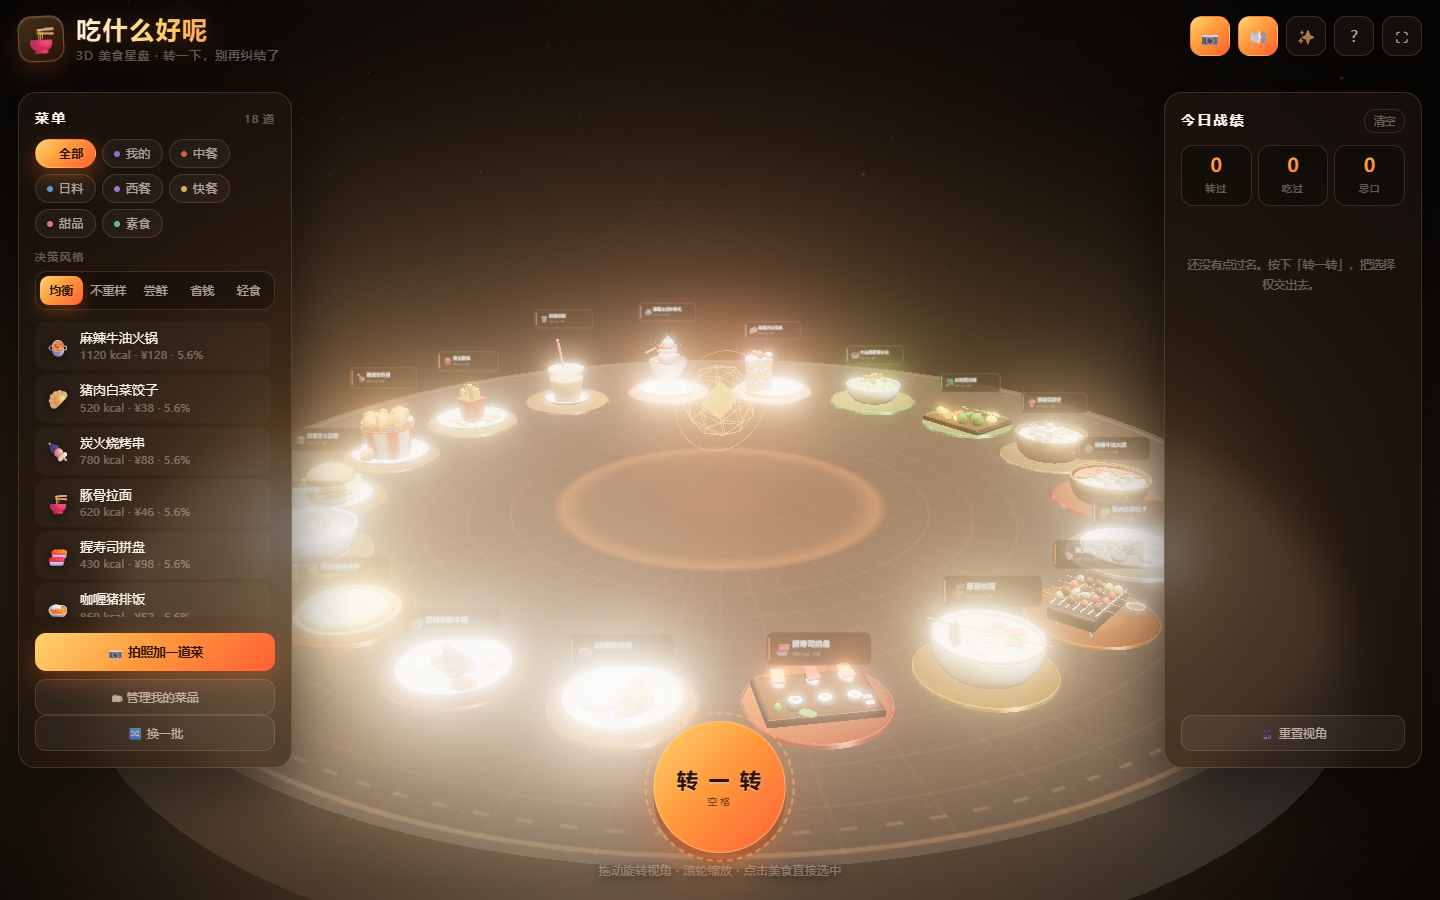
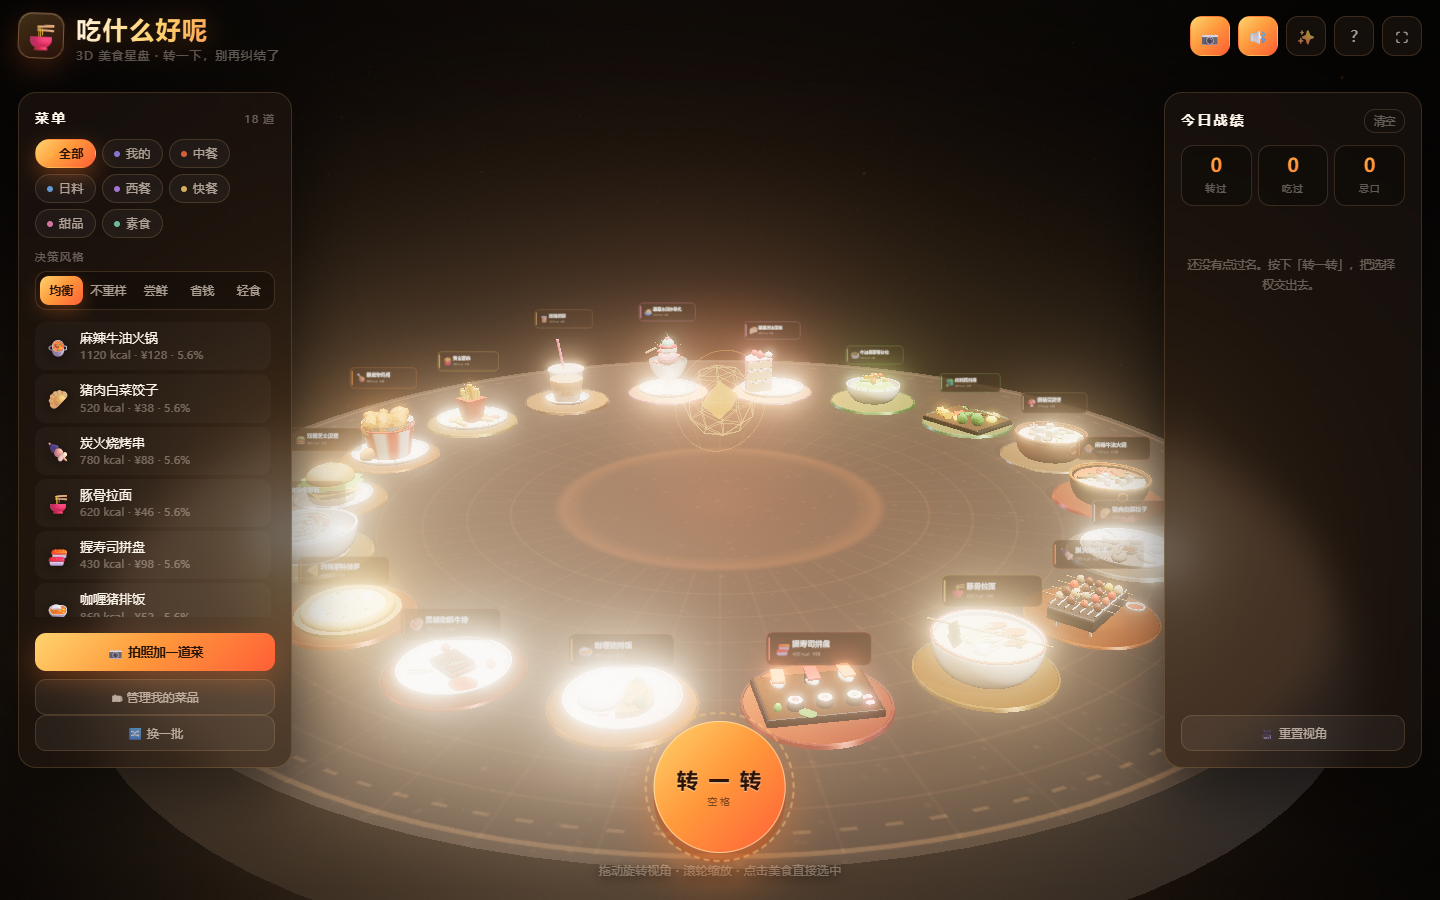
调暗特效光：光柱 / 能量核 / 盘子光晕 / Bloom
- 光柱各层透明度约减半，不再糊成白柱
- 中心能量核辉光、光斑、细环收敛，中心点光 7.5 → 5.2
- 盘子光晕 0.26 → 0.12、光圈 0.3 → 0.2
- Bloom 0.46 → 0.32，阈值 0.8 → 0.86；爆发/冲击环/浮尘同步减弱
- 整体平均亮度约 -11%，过曝像素约 -17%

diff --git a/src/three/effects.js b/src/three/effects.js
@@ -102,7 +102,7 @@ export function createAmbientMotes({ count = 320, inner = 2.2, outer = 6.4, heig
       pos[ix] += Math.sin(t * 0.5 + phases[i]) * dt * 0.06;
       pos[iz] += Math.cos(t * 0.42 + phases[i] * 1.3) * dt * 0.06;
       // 缓慢呼吸
-      alpha[i] = 0.12 + 0.4 * (0.5 + 0.5 * Math.sin(t * 0.9 + phases[i]));
+      alpha[i] = 0.09 + 0.26 * (0.5 + 0.5 * Math.sin(t * 0.9 + phases[i]));
     }
     geo.attributes.position.needsUpdate = true;
     geo.attributes.aAlpha.needsUpdate = true;
@@ -120,7 +120,7 @@ export function createCore() {
   root.position.set(0, 1.06, 0);
 
   // 内核
-  const inner = mesh(new THREE.OctahedronGeometry(0.2, 0), accentGlow(0xffb347, 1.25), {
+  const inner = mesh(new THREE.OctahedronGeometry(0.2, 0), accentGlow(0xffb347, 0.95), {
     cast: false,
   });
   inner.name = 'core-inner';
@@ -130,7 +130,7 @@ export function createCore() {
     color: 0xffc978,
     wireframe: true,
     transparent: true,
-    opacity: 0.32,
+    opacity: 0.22,
     depthWrite: false,
   });
   const shell = mesh(new THREE.IcosahedronGeometry(0.34, 1), shellMat, { cast: false, name: 'core-shell' });
@@ -141,7 +141,7 @@ export function createCore() {
     color: 0xff8a2e,
     blending: THREE.AdditiveBlending,
     transparent: true,
-    opacity: 0.3,
+    opacity: 0.17,
     depthWrite: false,
   });
   const glow = new THREE.Sprite(glowMat);
@@ -151,7 +151,7 @@ export function createCore() {
   const ringMat = new THREE.MeshBasicMaterial({
     color: 0xffb347,
     transparent: true,
-    opacity: 0.34,
+    opacity: 0.2,
     blending: THREE.AdditiveBlending,
     depthWrite: false,
   });
@@ -172,7 +172,7 @@ export function createCore() {
       map: haloTexture(),
       color: 0xff8a3a,
       transparent: true,
-      opacity: 0.5,
+      opacity: 0.24,
       blending: THREE.AdditiveBlending,
       depthWrite: false,
     }),
@@ -199,7 +199,7 @@ export function createCore() {
     inner.scale.setScalar(pulse);
     shell.scale.setScalar(1 + Math.sin(t * 1.7) * 0.04 + spinBoost * 0.2);
     glow.scale.setScalar(2.2 * (1 + Math.sin(t * 1.5) * 0.06 + spinBoost * 0.35));
-    glowMat.opacity = 0.26 + Math.sin(t * 2.1) * 0.05 + spinBoost * 0.24;
+    glowMat.opacity = 0.15 + Math.sin(t * 2.1) * 0.04 + spinBoost * 0.16;
     halo.scale.setScalar(1 + Math.sin(t * 1.3) * 0.04 + spinBoost * 0.22);
   }
 
@@ -272,7 +272,7 @@ export function createBeam() {
   function setColor(color) {
     const c = new THREE.Color(color);
     for (const m of [coneMat, shaftMat, ringMat, discMat]) m.color.copy(c);
-    shaftMat.color.lerp(new THREE.Color(0xffffff), 0.45);
+    shaftMat.color.lerp(new THREE.Color(0xffffff), 0.3);
   }
 
   function show(color, { pulse = false } = {}) {
@@ -296,10 +296,10 @@ export function createBeam() {
       return;
     }
     const breathe = 1 + Math.sin(t * 6) * 0.03 + pulseT * 0.12;
-    coneMat.opacity = level * 0.2 * breathe;
-    shaftMat.opacity = level * 0.5 * breathe;
-    ringMat.opacity = level * 0.85 * breathe;
-    discMat.opacity = level * 0.6 * breathe;
+    coneMat.opacity = level * 0.11 * breathe;
+    shaftMat.opacity = level * 0.28 * breathe;
+    ringMat.opacity = level * 0.5 * breathe;
+    discMat.opacity = level * 0.3 * breathe;
     const s = 1 + (1 - level) * 0.5;
     ring.scale.setScalar(s);
     disc.scale.setScalar(s + Math.sin(t * 2) * 0.02);
@@ -443,7 +443,7 @@ export function createBurst({ count = 130 } = {}) {
       positions[i * 3] += vel[i * 3] * dt;
       positions[i * 3 + 1] += vel[i * 3 + 1] * dt;
       positions[i * 3 + 2] += vel[i * 3 + 2] * dt;
-      alphas[i] = (1 - k) * (1 - k) * 0.95;
+      alphas[i] = (1 - k) * (1 - k) * 0.68;
     }
     geo.attributes.position.needsUpdate = true;
     geo.attributes.aAlpha.needsUpdate = true;
@@ -496,7 +496,7 @@ export function createShockRing() {
     const e = 1 - Math.pow(1 - t, 3);
     const s = 0.5 + e * 7;
     ring.scale.setScalar(s);
-    mat.opacity = (1 - t) * 0.7;
+    mat.opacity = (1 - t) * 0.4;
   }
 
   return { ring, trigger, update };

diff --git a/src/three/pods.js b/src/three/pods.js
@@ -48,11 +48,11 @@ function createPod(dish) {
     recv: true,
   });
 
-  // 发光的边缘（吃 Bloom）
+  // 发光的边缘（吃 Bloom，但别亮到把菜糊掉）
   const ringMat = new THREE.MeshBasicMaterial({
     color: accent.clone(),
     transparent: true,
-    opacity: 0.42,
+    opacity: 0.28,
     blending: THREE.AdditiveBlending,
     depthWrite: false,
     fog: false,
@@ -68,7 +68,7 @@ function createPod(dish) {
     map: glowTexture(0.3),
     color: accent.clone(),
     transparent: true,
-    opacity: 0.35,
+    opacity: 0.18,
     blending: THREE.AdditiveBlending,
     depthWrite: false,
     fog: false,
@@ -308,8 +308,8 @@ export function createPodRing({ dishes, narrow = false }) {
         if (Math.abs(pod.spin) < 1e-3) pod.spin = 0;
       }
 
-      pod.ringMat.opacity = 0.3 + pod.lift * 0.7 + pod.hover * 0.35 - pod.dim * 0.18;
-      pod.haloMat.opacity = 0.26 + pod.lift * 0.4 + pod.hover * 0.2 - pod.dim * 0.16;
+      pod.ringMat.opacity = 0.2 + pod.lift * 0.5 + pod.hover * 0.22 - pod.dim * 0.12;
+      pod.haloMat.opacity = 0.12 + pod.lift * 0.22 + pod.hover * 0.1 - pod.dim * 0.08;
       const labelBase = 1 - pod.dim * 0.62;
       pod.labelNormal.opacity = labelBase;
       pod.labelHighlight.opacity = labelBase;

diff --git a/src/three/scene.js b/src/three/scene.js
@@ -194,8 +194,8 @@ export function createStage(canvas, { quality = 'high' } = {}) {
   const rim = new THREE.DirectionalLight(0xff9a4a, 1.05);
   rim.position.set(0, 3.2, -8.5);
 
-  // 中心暖芯，让餐桌看起来是「热」的
-  const core = new THREE.PointLight(0xff7a2e, 7.5, 16, 2);
+  // 中心暖芯，让餐桌看起来是「热」的（别太亮，否则会把盘子上的菜冲白）
+  const core = new THREE.PointLight(0xff7a2e, 5.2, 16, 2);
   core.position.set(0, 1.15, 0);
 
   const table = buildTable(renderer);
@@ -215,7 +215,7 @@ export function createStage(canvas, { quality = 'high' } = {}) {
     if (!wantsComposer()) return;
     composer = new EffectComposer(renderer);
     composer.addPass(new RenderPass(scene, camera));
-    bloom = new UnrealBloomPass(new THREE.Vector2(1, 1), 0.46, 0.72, 0.8);
+    bloom = new UnrealBloomPass(new THREE.Vector2(1, 1), 0.32, 0.66, 0.86);
     composer.addPass(bloom);
     composer.addPass(new OutputPass());
   }

diff --git a/src/three/models/custom.js b/src/three/models/custom.js
@@ -112,7 +112,7 @@ export function buildPhotoPlaque({ dish, texture = null }) {
   // 底边主题色发光条
   const accentBar = mesh(
     new THREE.BoxGeometry(CARD_WIDTH + 0.035, 0.012, 0.016),
-    accentGlow(accent, 1.7),
+    accentGlow(accent, 1.2),
     { y: 0.006, z: 0.008, cast: false },
   );
   accentBar.userData.noShadow = true;
